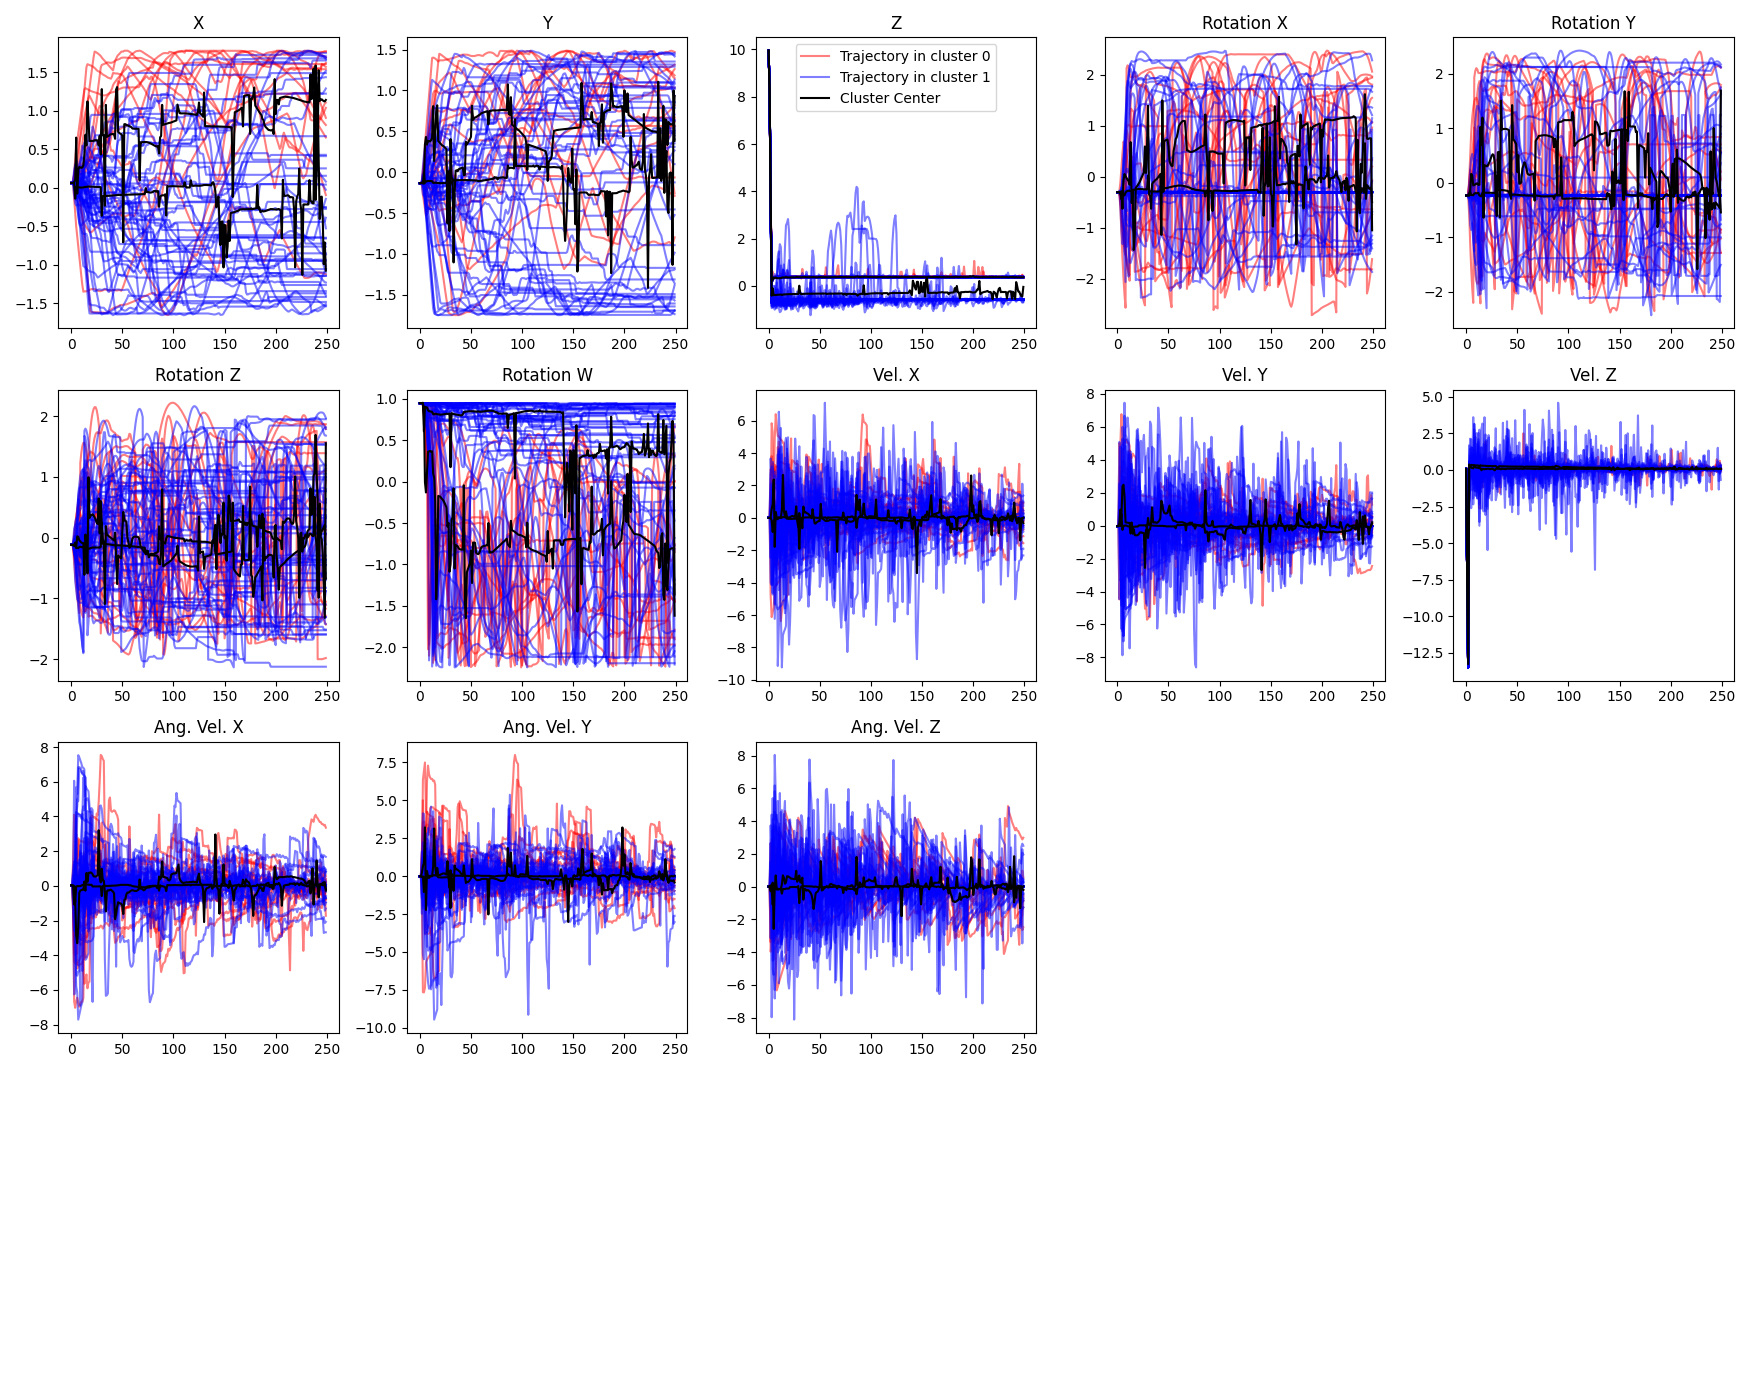
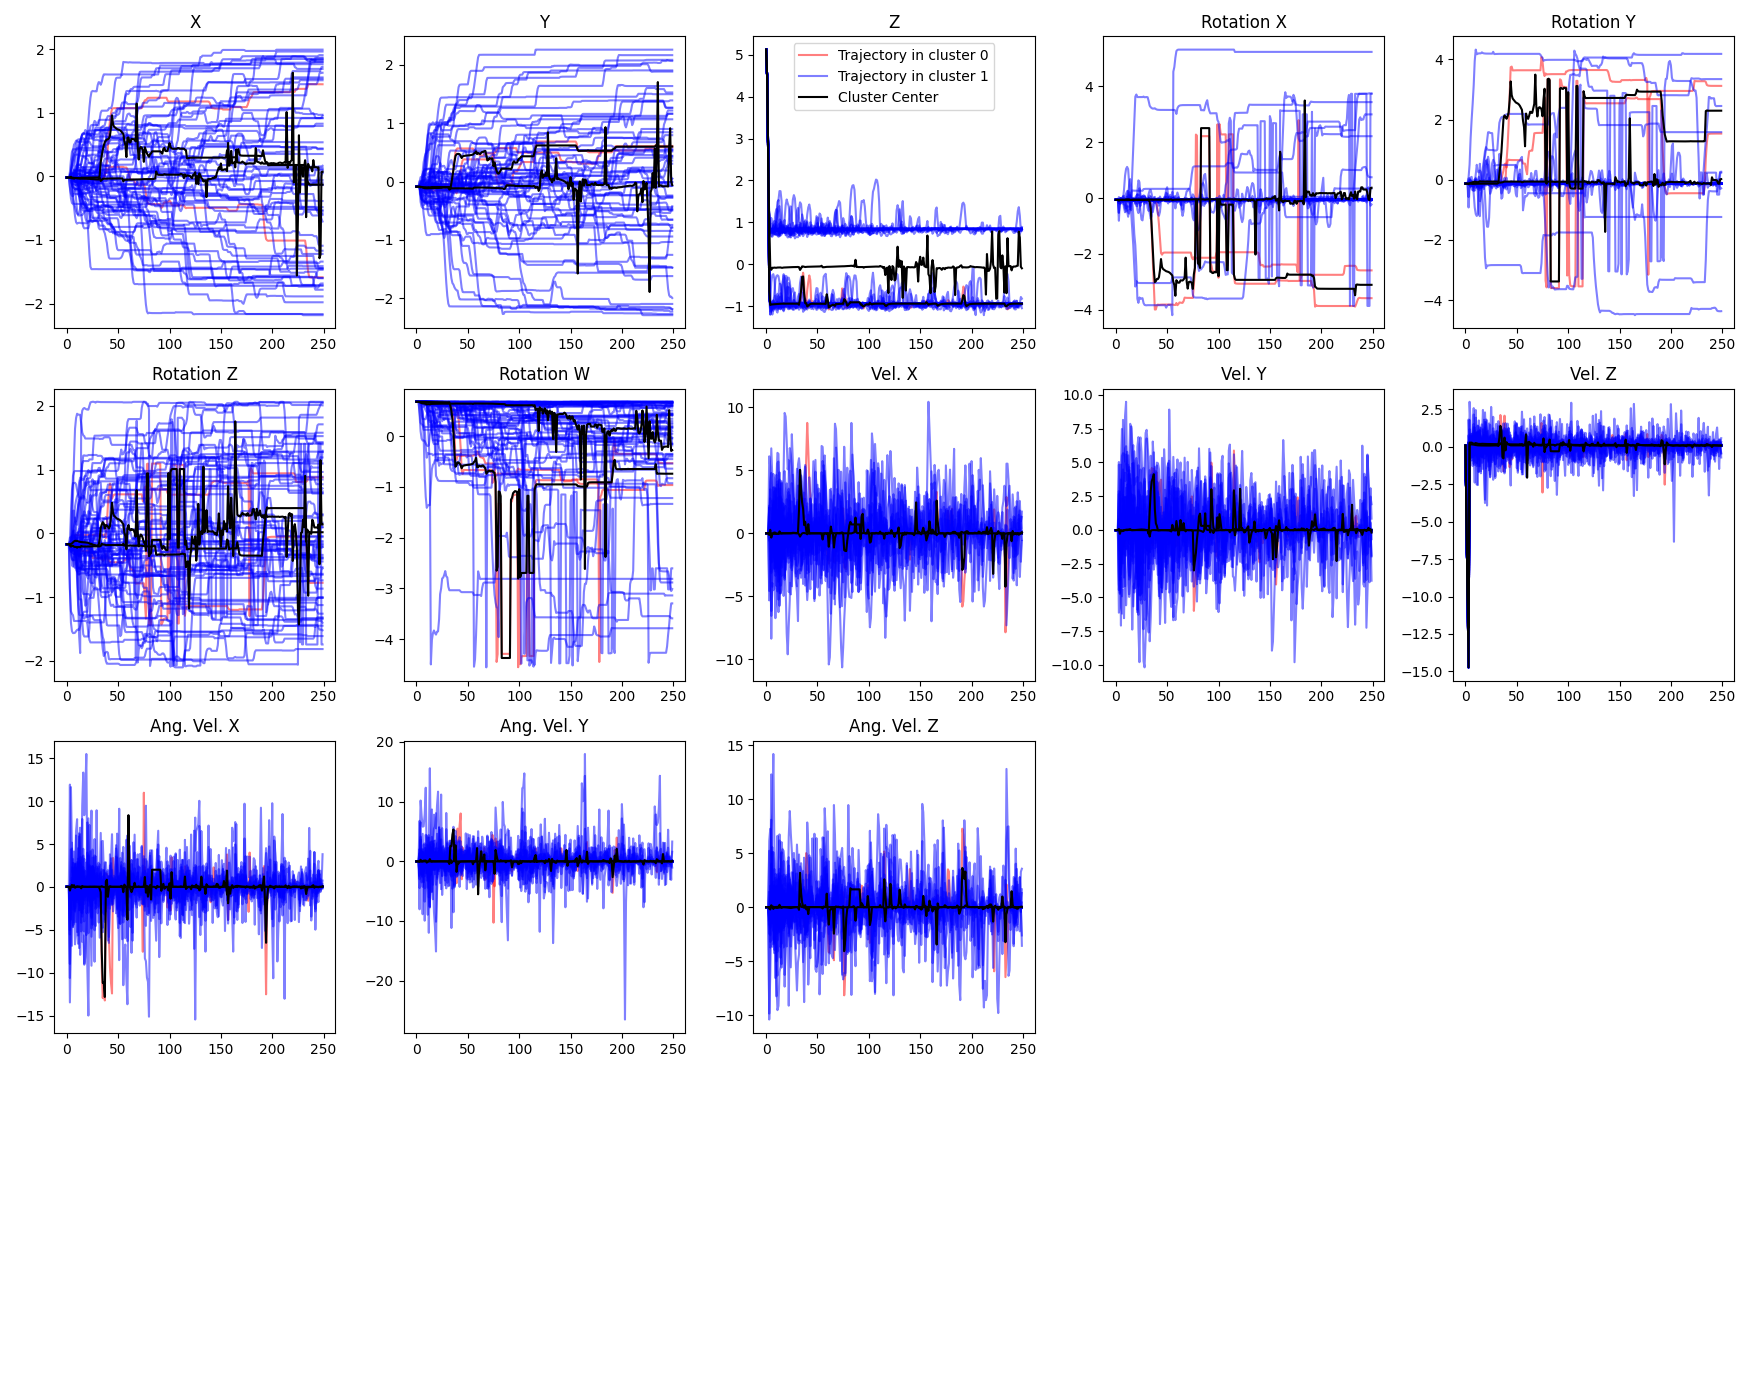
smallchanges and saved debug files?

diff --git a/test.py b/test.py
@@ -8,6 +8,7 @@ from stable_baselines3.common.vec_env import SubprocVecEnv
 from src.custom_task import MyOwnTask
 from src.CausalCuriousPPO import *
 from stable_baselines3.common.env_util import make_vec_env
+# For Sophia, in the event I forget how to activate my virtual environment:  source /path/to/venv/bin/activate
 
 if __name__ == '__main__':
 
@@ -18,10 +19,11 @@ if __name__ == '__main__':
 
 
     # Get causal world environment. second half are cube, first half are sphere
+    # things we can compare: weight heavy vs light, shape cube vs sphere, size big vs small? 
     def _make_env(rank):
         def _init():
-            task = MyOwnTask(shape="Cube" if rank < number_envs/2 else "Sphere",
-                             size="Big", #  if rank < number_envs/2 else "Small",
+            task = MyOwnTask(shape="Cube", # if rank < number_envs/2 else "Sphere",
+                             size="Big" if rank < number_envs/2 else "Small",
                              mass="Heavy")
             env = CausalWorld(task=task,
                               enable_visualization=False,

diff --git a/src/CausalCuriousPPO.py b/src/CausalCuriousPPO.py
@@ -220,7 +220,9 @@ class CausalCuriousPPO(OnPolicyAlgorithm):
         distance_to_other_cluster = normalize_distances(distance_to_other_cluster)
 
         # create reward
-        reward = 2 * distance_to_other_cluster - distance_to_my_cluster
+        # reward = 2 * distance_to_other_cluster - distance_to_my_cluster
+        ## TEST: run this with only the distance to the other cluster
+        reward = distance_to_other_cluster
 
         # assign reward to respective timesteps
         n_envs = len(buffer.rewards[1])
